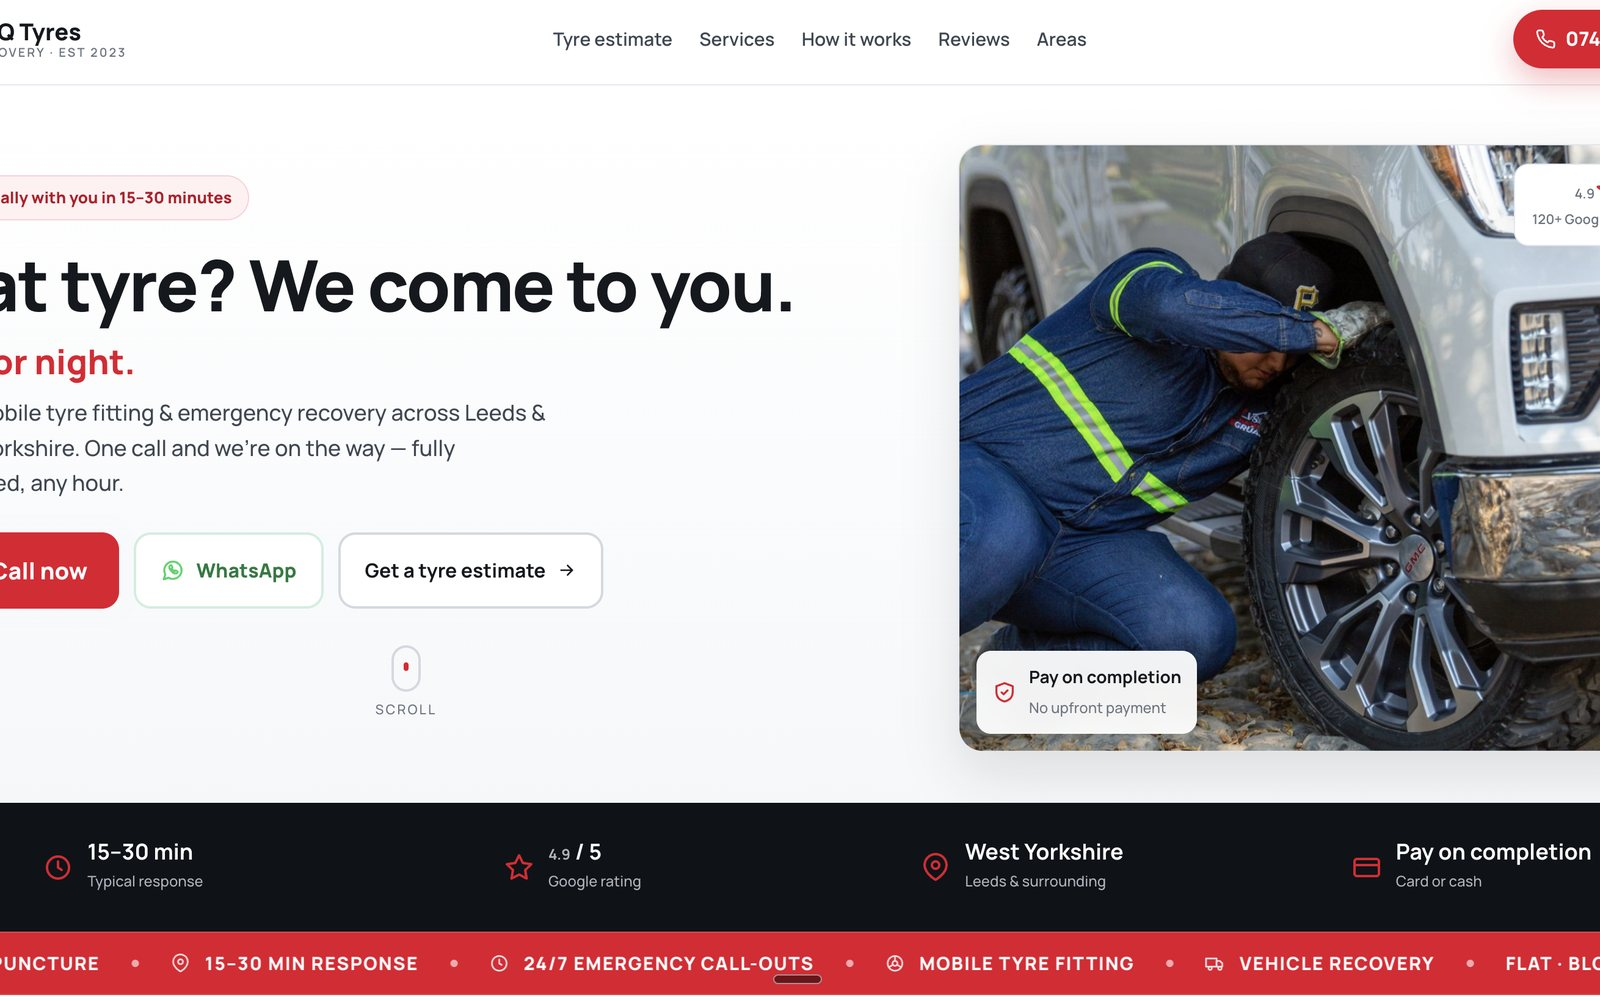
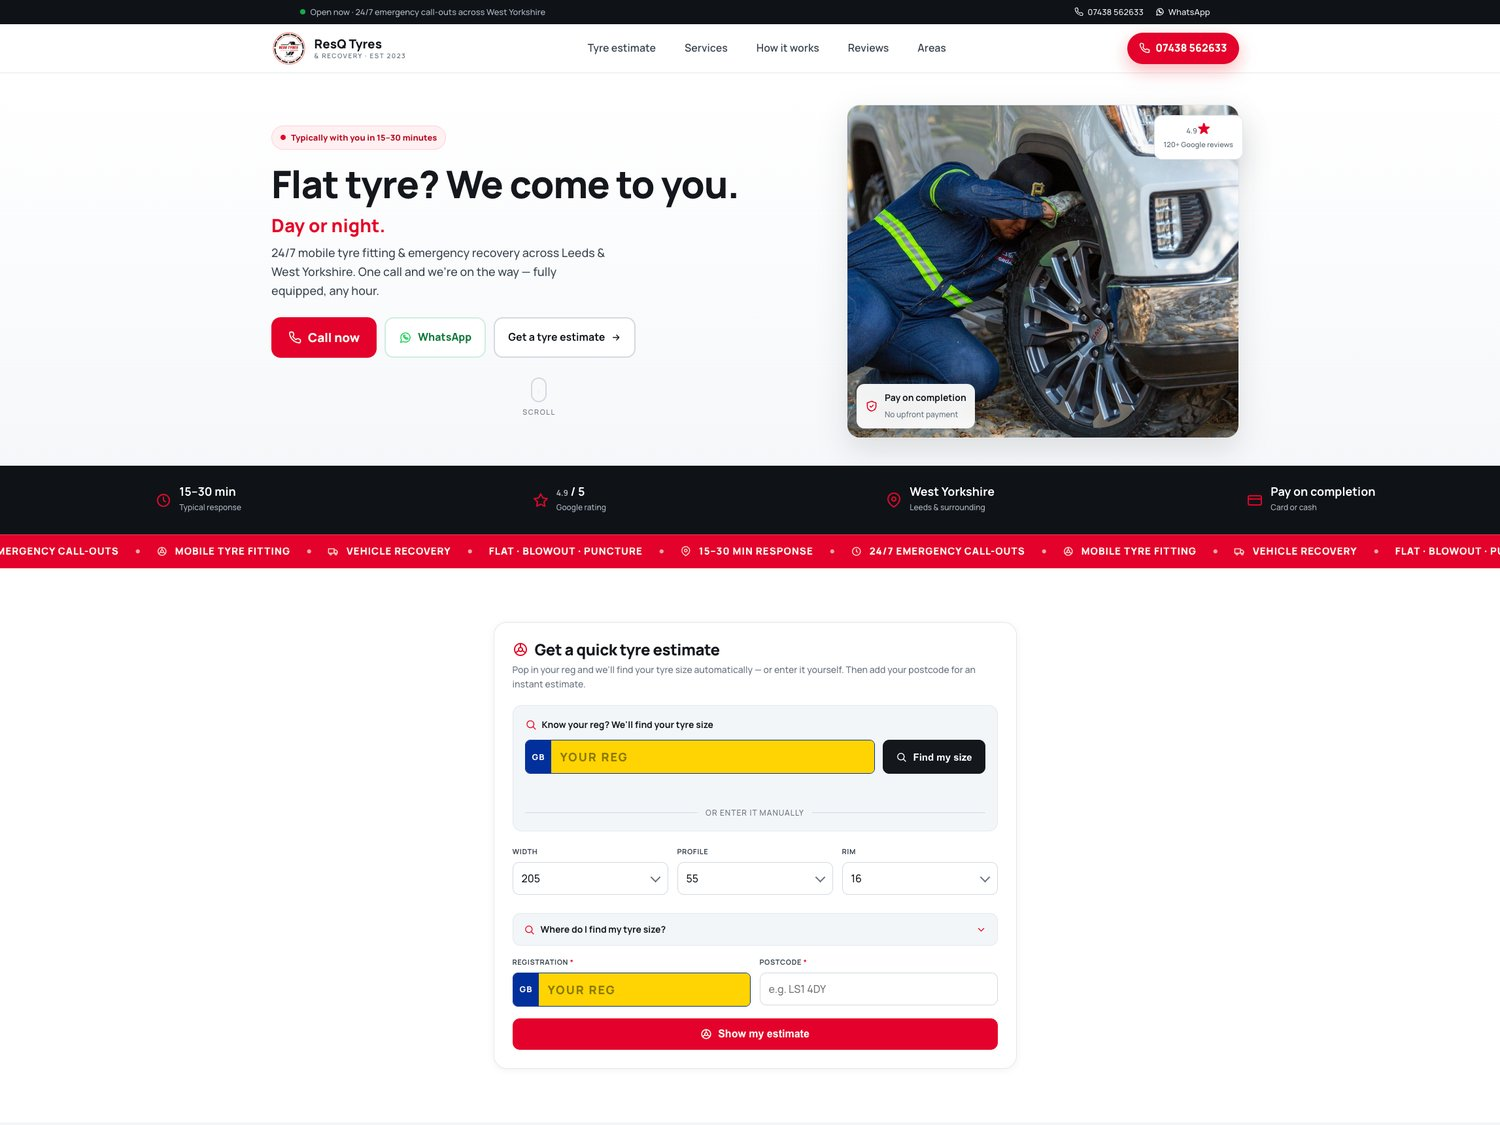
Before/after: taller 4:3 view showing more of each site

diff --git a/index.html b/index.html
@@ -116,7 +116,7 @@
 
   /* BEFORE / AFTER (ResQ uplift) */
   .ba-wrap{padding:90px 0}
-  .ba{position:relative;width:100%;aspect-ratio:16/10;border-radius:20px;overflow:hidden;border:1px solid var(--border);cursor:ew-resize;user-select:none;box-shadow:0 30px 80px rgba(0,0,0,.45);touch-action:pan-y;margin-top:40px}
+  .ba{position:relative;width:100%;aspect-ratio:4/3;max-height:86vh;border-radius:20px;overflow:hidden;border:1px solid var(--border);cursor:ew-resize;user-select:none;box-shadow:0 30px 80px rgba(0,0,0,.45);touch-action:pan-y;margin-top:40px}
   .ba-layer{position:absolute;inset:0;background-size:cover;background-position:top center;background-repeat:no-repeat}
   .ba-before{background-color:#e9eaec;background-image:url('assets/resq-old.jpg')}
   .ba-after{background-color:#11202e;background-image:url('assets/resq-new.jpg');clip-path:inset(0 0 0 calc(var(--p,50)*1%))}